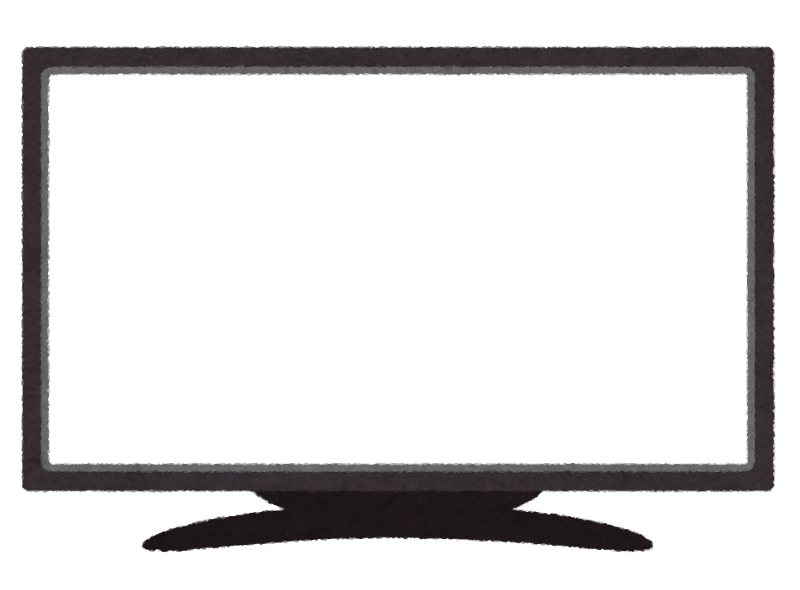
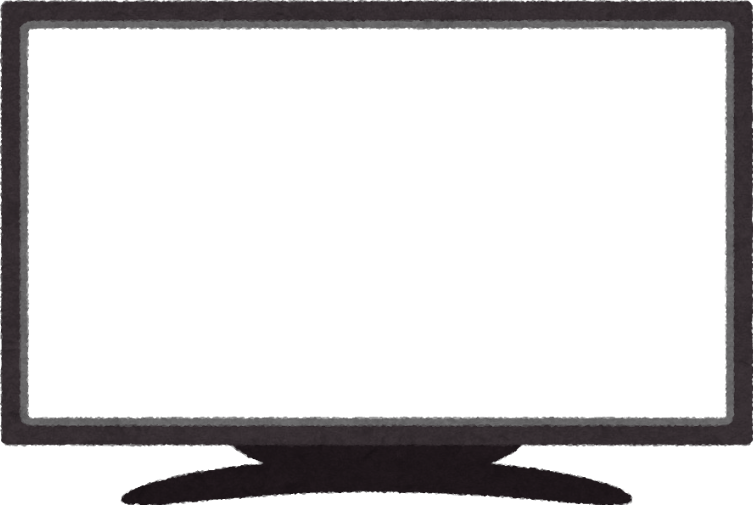
ya

diff --git a/frontend/source/components/MovingAvatar/MovingAvatar.tsx b/frontend/source/components/MovingAvatar/MovingAvatar.tsx
@@ -4,41 +4,41 @@ import { data } from "types"
 import Statusbar from "components/Statusbar/Statusbar"
 
 type props = {
-  data: data[]
+    data: data[]
 }
 
 const MovingAvatar = ({ data }: props) => {
-  const r = Math.floor((data[0].mask / (data[0].mask + data[0].nomask)) * 10);
-  const srcList: string[] = [];
-  for (let i = 1; i < r + 1; i++) {
-    console.log("i = " + i);
-    srcList.push(
-      "/MaskBuisinesMan.png"
-    );
-  }
-  for (let j = r + 1; j < 11; j++) {
-    srcList.push(
-      "/NoMaskMan.png"
-    );
-  }
-  return (
-    <>
-      <div className={css.imageFlex}>
-        {srcList.map((path: string, index: number) => {
-          return (
-            <Image
-              src={`${path}`}
-              className={`${css.keyframe2} ${css.animation} ${css.image}`}
-              alt="My avatar"
-              fill
-              key={index}
-            />
-          )
-        })}
-      </div>
-      <Statusbar ratio={r} />
-    </>
-  )
+    const r = Math.floor((data[0].mask / (data[0].mask + data[0].nomask)) * 10);
+    const srcList: string[] = [];
+    for (let i = 1; i < r + 1; i++) {
+        console.log("i = " + i);
+        srcList.push(
+            "/MaskBuisinesMan.png"
+        );
+    }
+    for (let j = r + 1; j < 11; j++) {
+        srcList.push(
+            "/NoMaskMan.png"
+        );
+    }
+    return (
+        <div className={css.MovingAvatarPosition}>
+            <div className={css.imageFlex}>
+                {srcList.map((path: string, index: number) => {
+                    return (
+                        <Image
+                            src={`${path}`}
+                            className={`${css.keyframe2} ${css.animation} ${css.image}`}
+                            alt="My avatar"
+                            fill
+                            key={index}
+                        />
+                    )
+                })}
+            </div>
+            <Statusbar ratio={r} />
+        </div>
+    )
 }
 
 export default MovingAvatar

diff --git a/frontend/source/components/MovingAvatar/MovingAvatar.module.css b/frontend/source/components/MovingAvatar/MovingAvatar.module.css
@@ -1,3 +1,9 @@
+.MovingAvatarPosition {
+    background-repeat: no-repeat;
+    background-image: url(/TV.png);
+    background-size: cover;
+}
+
 .imageFlex {
     display: flex;
 }
